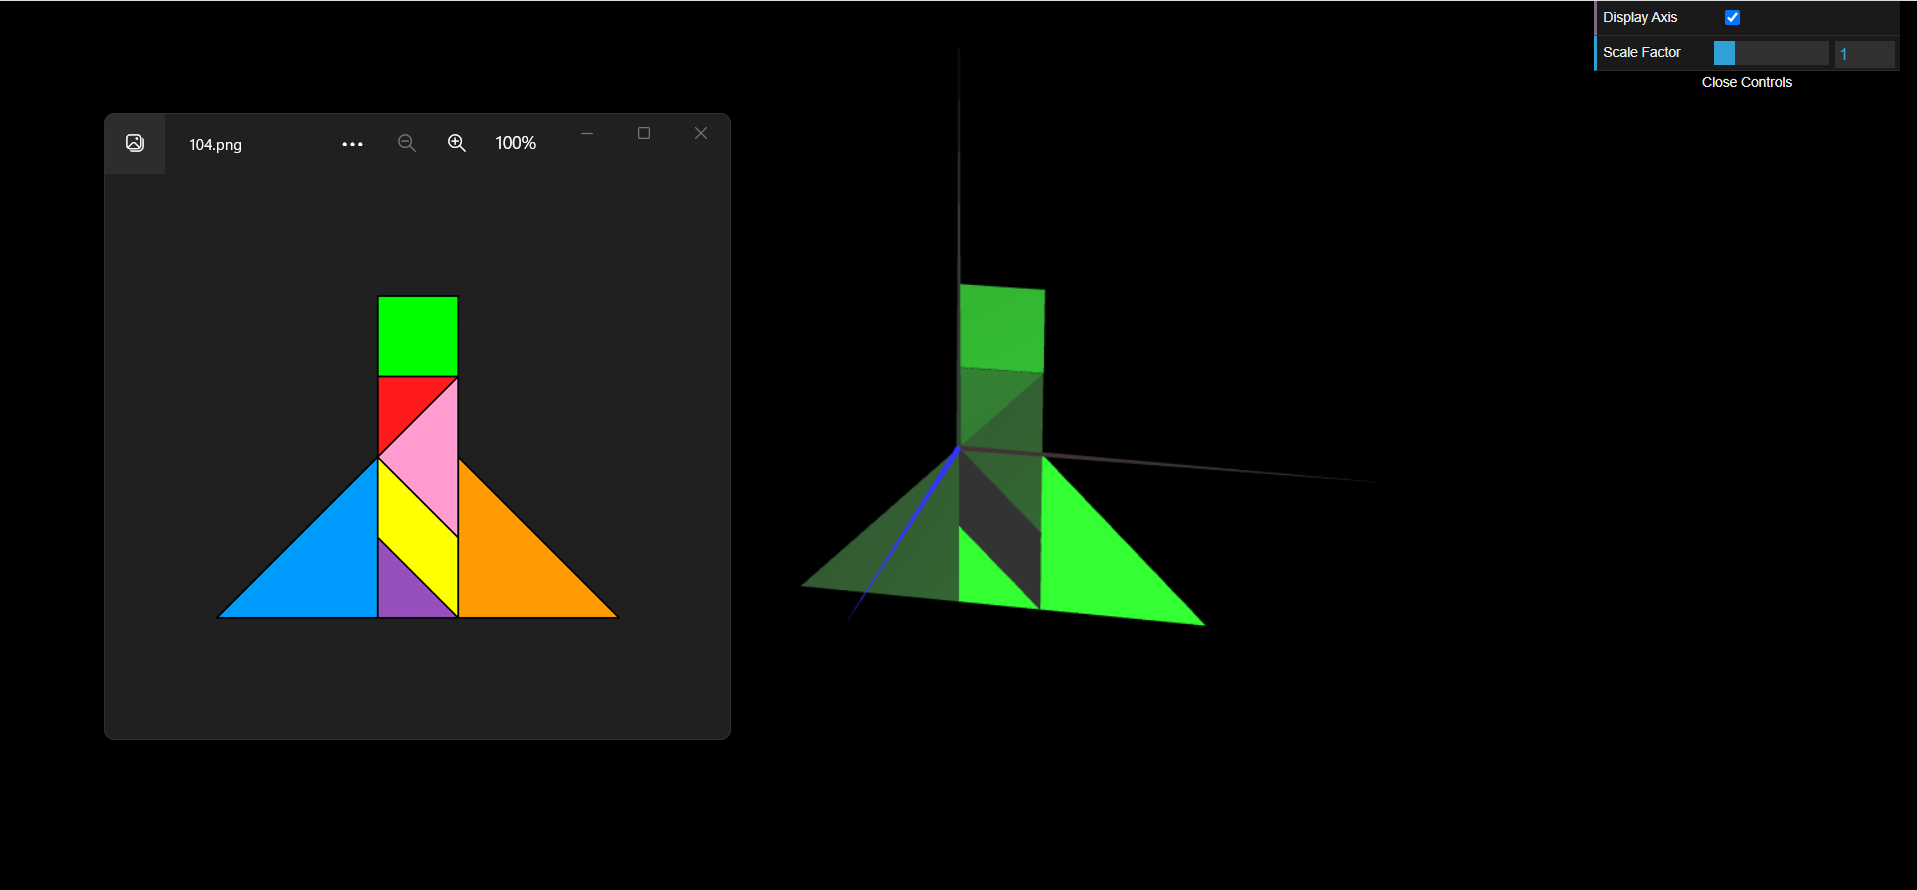
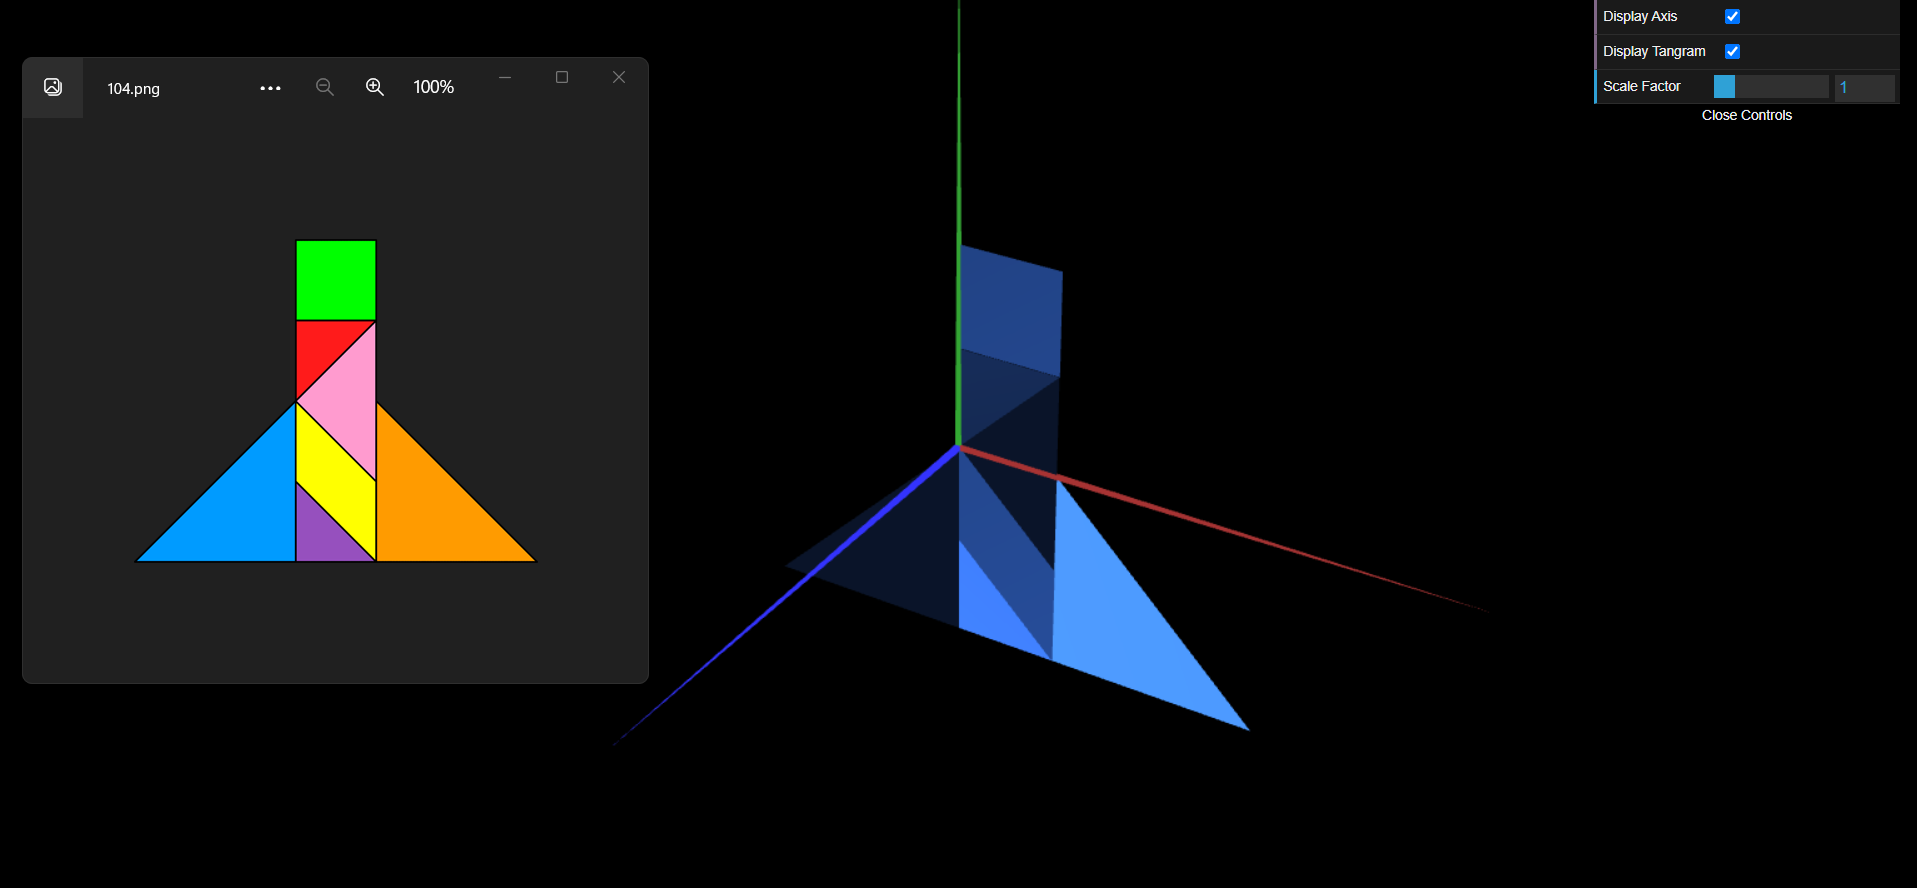
fix tangram color and update README

diff --git a/tp2/MyScene.js b/tp2/MyScene.js
@@ -28,6 +28,7 @@ export class MyScene extends CGFscene {
     
     //Objects connected to MyInterface
     this.displayAxis = true;
+    this.displayTangram = true;
     this.scaleFactor = 1;
   }
 
@@ -68,7 +69,6 @@ export class MyScene extends CGFscene {
 
     // Draw axis
     if (this.displayAxis) this.axis.display();
-    this.tangram.display();
 
     this.setDefaultAppearance();
 
@@ -92,6 +92,8 @@ export class MyScene extends CGFscene {
     ];
 
     this.multMatrix(sca);
+    
+    if (this.displayTangram) this.tangram.display();
 
     // ---- END Primitive drawing section
   }

diff --git a/tp2/MyInterface.js b/tp2/MyInterface.js
@@ -19,6 +19,7 @@ export class MyInterface extends CGFinterface {
 
         //Checkbox elements in GUI
         this.gui.add(this.scene, 'displayAxis').name('Display Axis');
+        this.gui.add(this.scene, 'displayTangram').name('Display Tangram');
         /*this.gui.add(this.scene, 'displayDiamond').name('Display Diamond');
         this.gui.add(this.scene, 'displayLeftTriangle').name('Display Left Triangle');
         this.gui.add(this.scene, 'displayRightTriangle').name('Display Right Triangle');

diff --git a/tp2/README.md b/tp2/README.md
@@ -4,6 +4,7 @@
 
 ## TP 2 Notes
 
-
+- In exercise 1 we learned how to apply the 3 transformations on to simple objects.
+- This exercise was more difficult than we expected, and the transformations can seem confusing, especially because the 3 axis aren't ordered how we are used to.
 
 ![Screenshot 1](screenshots/cg-t10g01-tp2-1.png)
